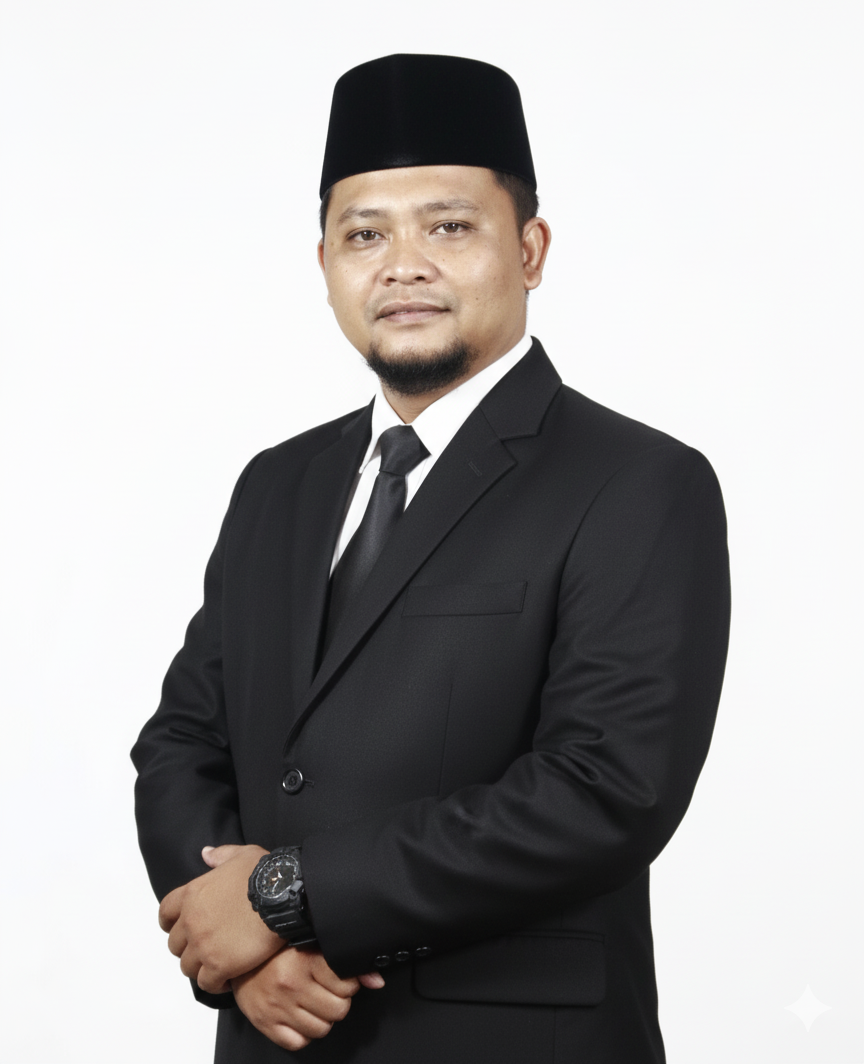
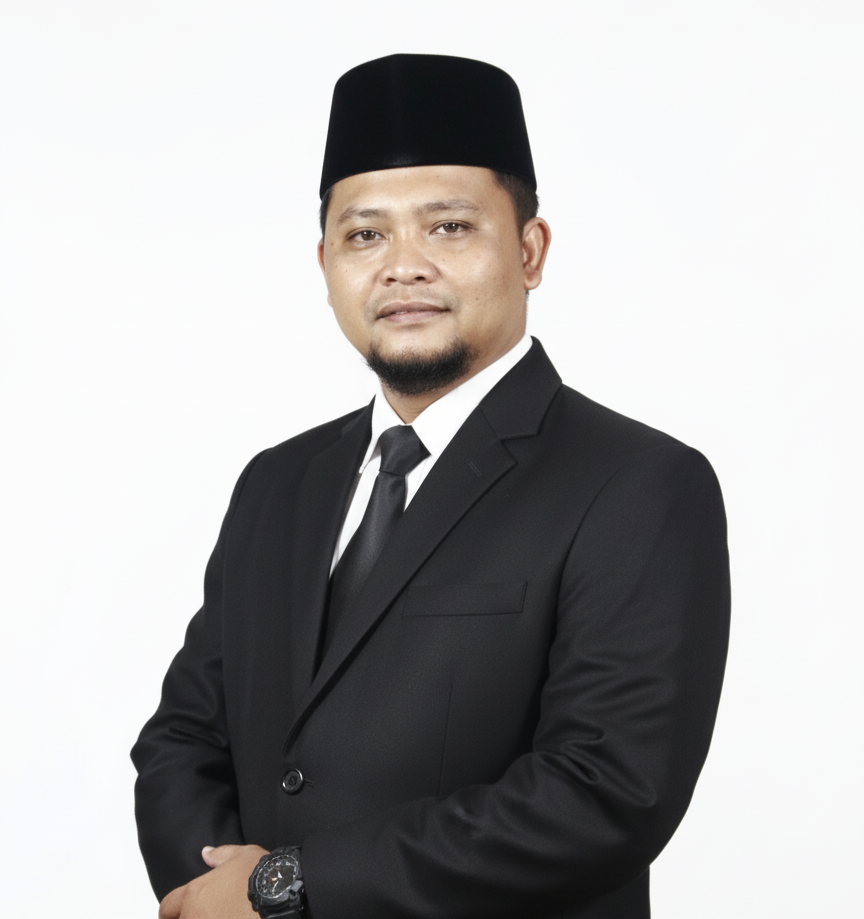
perbaiki navbar dan img kepala sekolah. Tambah assets

diff --git a/redesign-web1.html b/redesign-web1.html
@@ -371,10 +371,12 @@
            3. FLOATING ISLAND NAVBAR WITH GLASSMORPHISM 2.0
            ========================================================================== */
         .header-wrapper {
-            position: sticky;
-            top: 0;
-            left: 0;
-            width: 100%;
+            position: fixed;
+            border-radius: 50px;
+            top: 1rem;
+            left: 50%;
+            transform: translate(-50%, 0);
+            width: 90%;
             z-index: 1000;
             background: #ffffff;
             border-bottom: 1px solid var(--border-card);
@@ -402,13 +404,18 @@
         }
 
         .brand-logo {
-            width: 42px;
-            height: 42px;
-            border-radius: var(--radius-sm);
+            width: auto;
+            max-width: 180px;
+            height: auto;
+            max-height: 60px;
             object-fit: contain;
-            background: #ffffff;
-            padding: 2px;
-            box-shadow: 0 2px 8px rgba(0, 0, 0, 0.06);
+            filter: drop-shadow(0 2px 4px rgba(0, 0, 0, 0.06));
+            transition: transform 0.3s ease, filter 0.3s ease;
+        }
+
+        .brand-logo:hover {
+            transform: translateY(-2px);
+            filter: drop-shadow(0 4px 8px rgba(0, 0, 0, 0.12));
         }
 
         .brand-text-main {
@@ -604,7 +611,7 @@
            4. HERO SECTION - ULTRA-MODERN ASYMMETRICAL TECH-EDITORIAL
            ========================================================================== */
         .hero-section {
-            padding: 6rem 0 5rem;
+            padding: 8rem 0rem;
             position: relative;
             display: flex;
             align-items: center;
@@ -1075,7 +1082,6 @@
             position: relative;
             border-radius: var(--radius-lg);
             overflow: hidden;
-            background: linear-gradient(135deg, var(--primary-dark) 0%, var(--primary) 100%);
             box-shadow: var(--shadow-card);
         }
 
@@ -1084,6 +1090,7 @@
             height: 100%;
             object-fit: cover;
             transition: var(--transition);
+            margin-bottom: 50px
         }
 
         .executive-photo-frame:hover img {
@@ -2085,11 +2092,7 @@
     <header class="header-wrapper">
         <nav class="nav-island" id="main-nav">
             <a href="#hero" class="brand-box">
-                <img src="assets/logo.webp" alt="Logo SMKS Muhammadiyah 1 Genteng" class="brand-logo">
-                <div>
-                    <div class="brand-text-main">SMKS MUHI GENTENG</div>
-                    <div class="brand-text-sub">The Answer For Your Future</div>
-                </div>
+                <img src="assets/logo.png" alt="Logo SMKS Muhammadiyah 1 Genteng" class="brand-logo">
             </a>
 
             <div class="nav-menu">
@@ -2177,7 +2180,7 @@
     <div class="mobile-drawer" id="mobile-drawer">
         <button class="drawer-close" id="drawer-close-btn">&times;</button>
         <div class="brand-box" style="margin-bottom: 2rem;">
-            <img src="assets/logo.webp" alt="Logo SMKS MUHI" class="brand-logo">
+            <img src="assets/logo.png" alt="Logo SMKS MUHI" class="brand-logo">
             <div>
                 <strong style="color:var(--primary); font-size:1.1rem; display:block;">SMKS MUHI GENTENG</strong>
                 <small style="color:var(--text-muted); font-size:0.75rem;">NPSN 20525597 &bull; Akreditasi A</small>
@@ -3047,11 +3050,7 @@
             <div class="footer-grid">
                 <div>
                     <div class="brand-box" style="margin-bottom:1.2rem;">
-                        <img src="assets/logo.webp" alt="Logo SMKS MUHI" class="brand-logo">
-                        <div
-                            style="color:#ffffff; font-family:var(--font-display); font-weight:800; font-size:1.15rem;">
-                            SMKS MUHAMMADIYAH 1 GENTENG
-                        </div>
+                        <img src="assets/logo.png" alt="Logo SMKS MUHI" class="brand-logo">
                     </div>
                     <p style="color:#a8a29e; font-size:0.92rem; line-height:1.7; margin-bottom:1.2rem;">
                         Jl. KH. Ahmad Dahlan / Jl. KH Imam Bahri No.10, Dusun Krajan, Genteng Wetan, Kec. Genteng,
